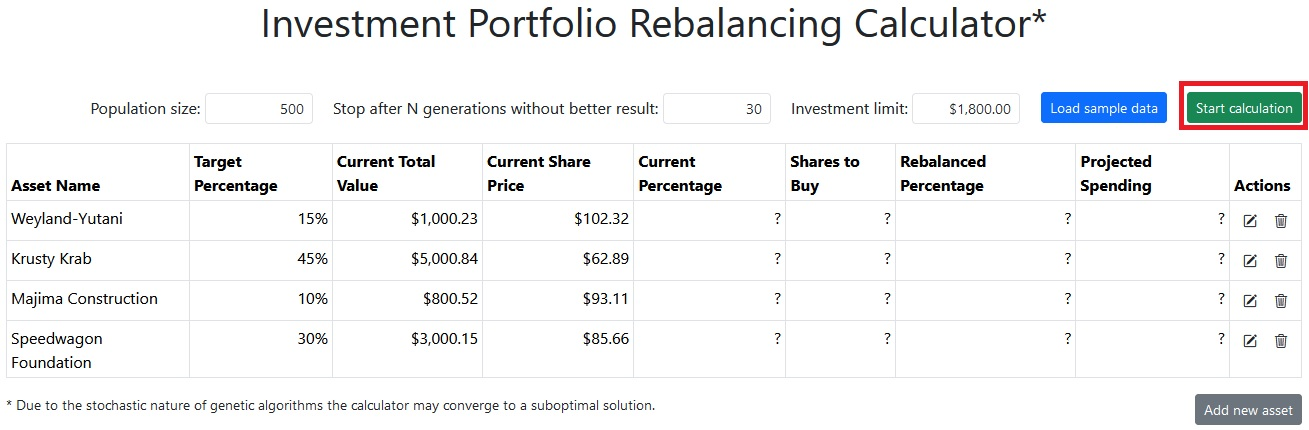
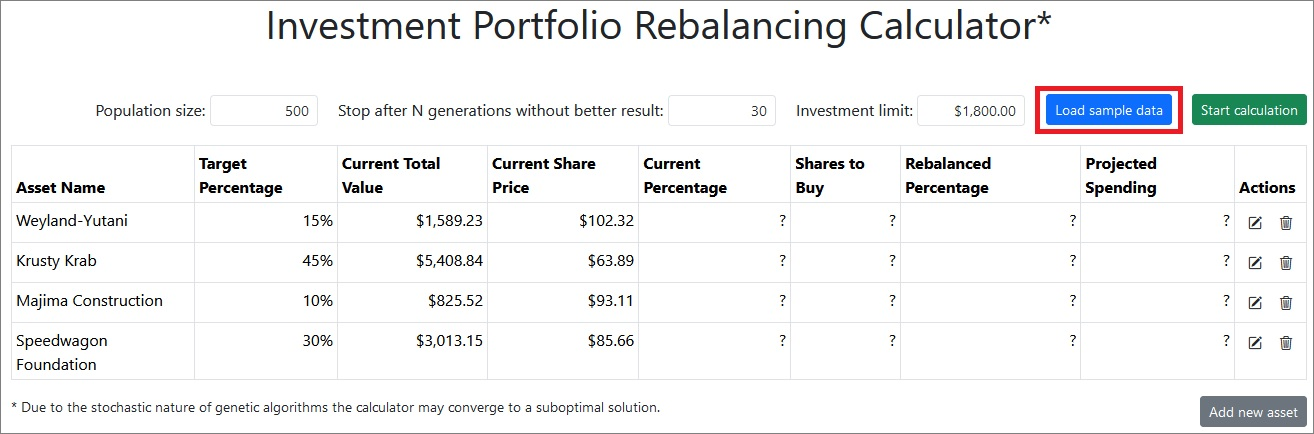
Adjusted sample data values.

diff --git a/src/init.js b/src/init.js
@@ -1,8 +1,8 @@
 const SAMPLE_DATA = [
-  { name: 'Weyland-Yutani', targetPercentage: 15, currentTotalValue: 1000.23, currentSharePrice: 102.32 },
-  { name: 'Krusty Krab', targetPercentage: 45, currentTotalValue: 5000.84, currentSharePrice: 62.89 },
-  { name: 'Majima Construction', targetPercentage: 10, currentTotalValue: 800.52, currentSharePrice: 93.11 },
-  { name: 'Speedwagon Foundation', targetPercentage: 30, currentTotalValue: 3000.15, currentSharePrice: 85.66 }
+  { name: 'Weyland-Yutani', targetPercentage: 15, currentTotalValue: 1589.23, currentSharePrice: 102.32 },
+  { name: 'Krusty Krab', targetPercentage: 45, currentTotalValue: 5408.84, currentSharePrice: 63.89 },
+  { name: 'Majima Construction', targetPercentage: 10, currentTotalValue: 825.52, currentSharePrice: 93.11 },
+  { name: 'Speedwagon Foundation', targetPercentage: 30, currentTotalValue: 3013.15, currentSharePrice: 85.66 }
 ];
 const INIT_POPULATION_SIZE = 500;
 const INIT_STOP_AFTER_N_GENERATIONS_WITHOUT_BETTER_RESULT = 30;

diff --git a/README.md b/README.md
@@ -58,12 +58,12 @@ With time, the value of Mr. Smith's portfolio grew, and the asset prices kept ch
 
 Asset Name | Target Percentage | Current Total Value | Current Share Price | Current Percentage
 --- | ---: | ---: | ---: | ---:
-Weyland-Yutani | 15% | $1,000.23 | $102.32 | 10.20%
-Krusty Krab | 45% | $5,000.84 | $62.89 | 51.02%
-Majima Construction | 10% | $800.52| $93.11 | 8.17%
-Speedwagon Foundation | 30% | $3,000.15 | $85.66 | 30.61%
+Weyland-Yutani | 15% | $1,589.23 | $102.32 | 14.67%
+Krusty Krab | 45% | $5,408.84 | $63.89 | 49.91%
+Majima Construction | 10% | $825.52| $93.11 | 7.62%
+Speedwagon Foundation | 30% | $3,013.15 | $85.66 | 27.80%
 
-Mr. Smith saw that Weyland-Yutani now occupies only 10.20% of his portfolio instead of 15%, Krusty Krab grew to be 51.02% instead of mere 45%, etc. How many shares of each company does he need to buy so that:
+Mr. Smith saw that Majima Construction now occupies only 7.62% of his portfolio instead of 10%, Krusty Krab grew to be 49.91% instead of mere 45%, etc. How many shares of each company does he need to buy so that:
 1. the percentage of each asset in the portfolio goes back to the target percentage as closely as possible, and 
 2. as much as possible is spent of the $1,800?
 
@@ -73,21 +73,21 @@ Download this repository and open [index.html](index.html) in your browser:
 
 ![start](img/start.jpg)
 
-It doesn't look super interesting, so click on the "Load sample data" button:
+Enter the investment limit, then add assets by clicking "Add new asset" button:
+
+![editable](img/editable.jpg)
+
+Or click the "Load sample data" button to load a full sample:
 
 ![sample](img/sample.jpg)
 
-We're now seeing the data outlined in the "Problem" section of this readme. Click "Start calculation" and wait for a couple of seconds while the genetic algorithm runs...
+After adding all of your assets or loading a sample, click "Start calculation" and wait for a couple of seconds while the genetic algorithm runs...
 
 ![calculation](img/calculation.jpg)
 
-The solution says it would be best to buy 7 shares of Weyland-Yutani, 3 shares of Krusty Krab, 4 shares of Majima Construction, and 6 shares of Speedwagon Foundation. This way all but $8.69 of the initial $1800 would be spent.
+The solution says it would be best to buy 3 shares of Weyland-Yutani, 4 shares of Krusty Krab, 5 shares of Majima Construction, and 9 shares of Speedwagon Foundation. This way all but $0.99 of the initial $1800 would be spent.
 
 ![full](img/full.jpg)
-
-All assets and their data are editable. New assets can be added, and old assets can be removed.
-
-![editable](img/editable.jpg)
 
 Since the genetic algorithm is stochastic and is not guaranteed to always converge to the best solution, the calculator may produce more than one solution when run multiple times over identical data. Multiple solutions are stored in memory and can be recalled from the "Load solution..." menu (visible only with 2+ unique solutions, max 5 stored solutions on identical data):
 
